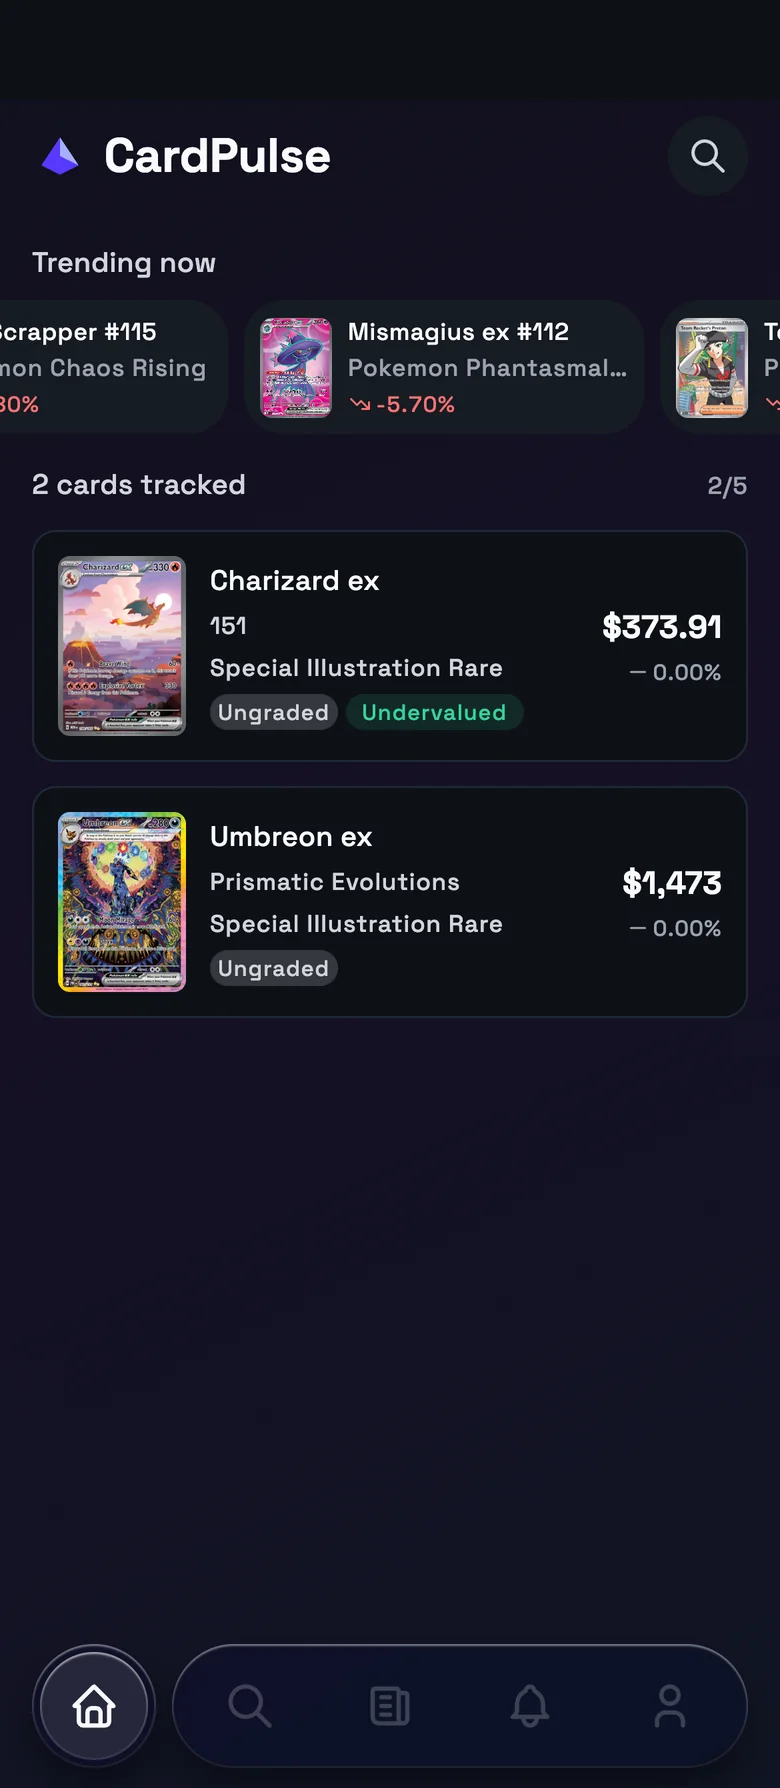
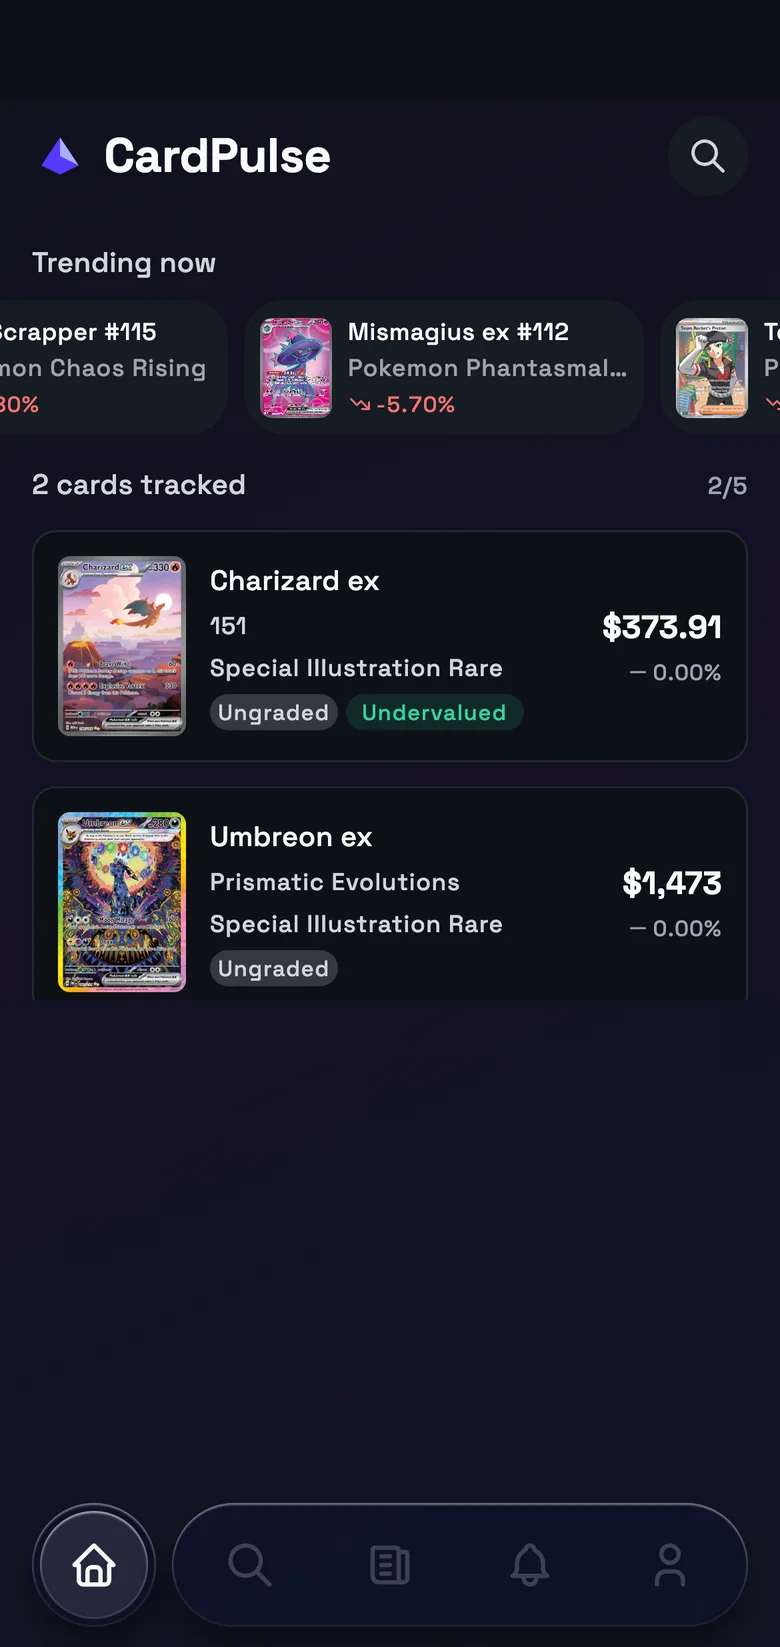
fix(website): real iPhone proportions for the hero mock
The frame was 9/14.5 against a 9/20.6 capture, so object-fit: cover
cropped away the bottom third -- tab bar included -- and centered the
home screen's emptiest region. The frame now runs at a real iPhone's
9/19, and the capture is recomposited to match: safe-area inset up top,
the dead middle spliced out (both cuts land in plain canvas so the seam
is invisible), tab bar kept.

diff --git a/website/app/globals.css b/website/app/globals.css
@@ -319,9 +319,9 @@ ul.plain {
 
 .phone {
   width: 100%;
-  max-width: 300px;
+  max-width: 280px;
   margin: 0 auto;
-  aspect-ratio: 9 / 14.5;
+  aspect-ratio: 9 / 19;
   /* iPhone frame: rim, inset screen, island */
   background: var(--surface);
   border: 1px solid var(--rule);
